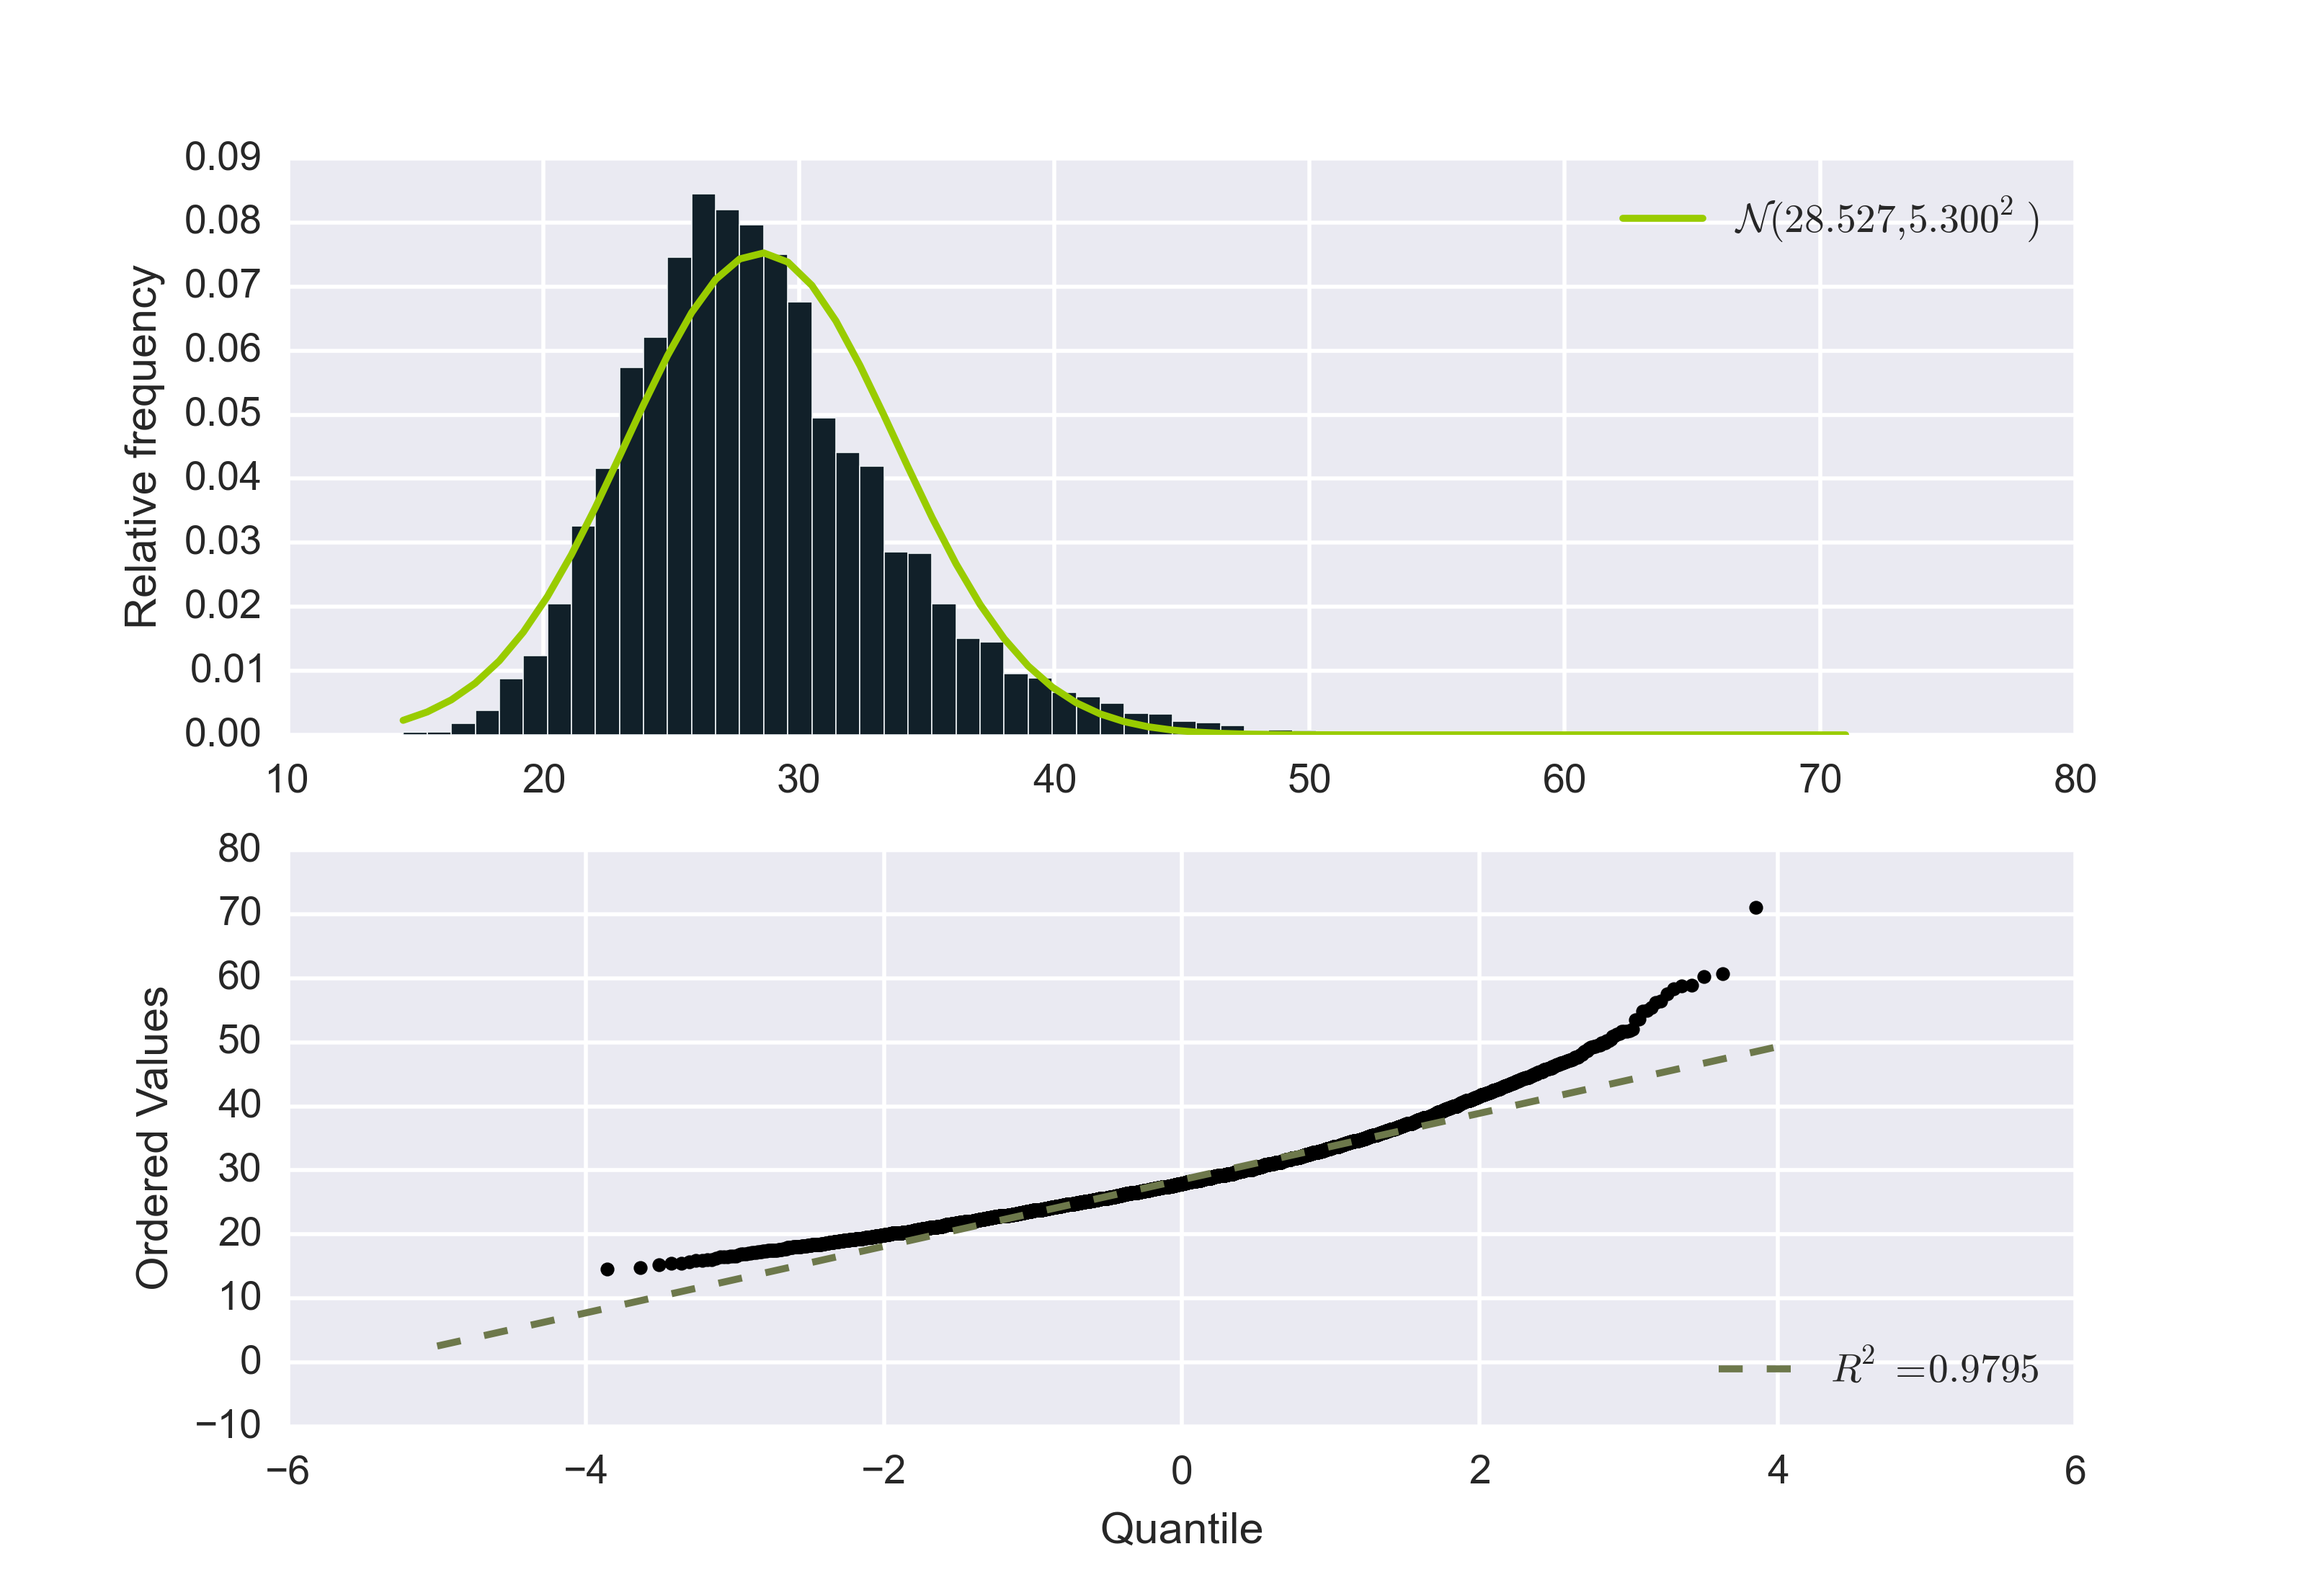
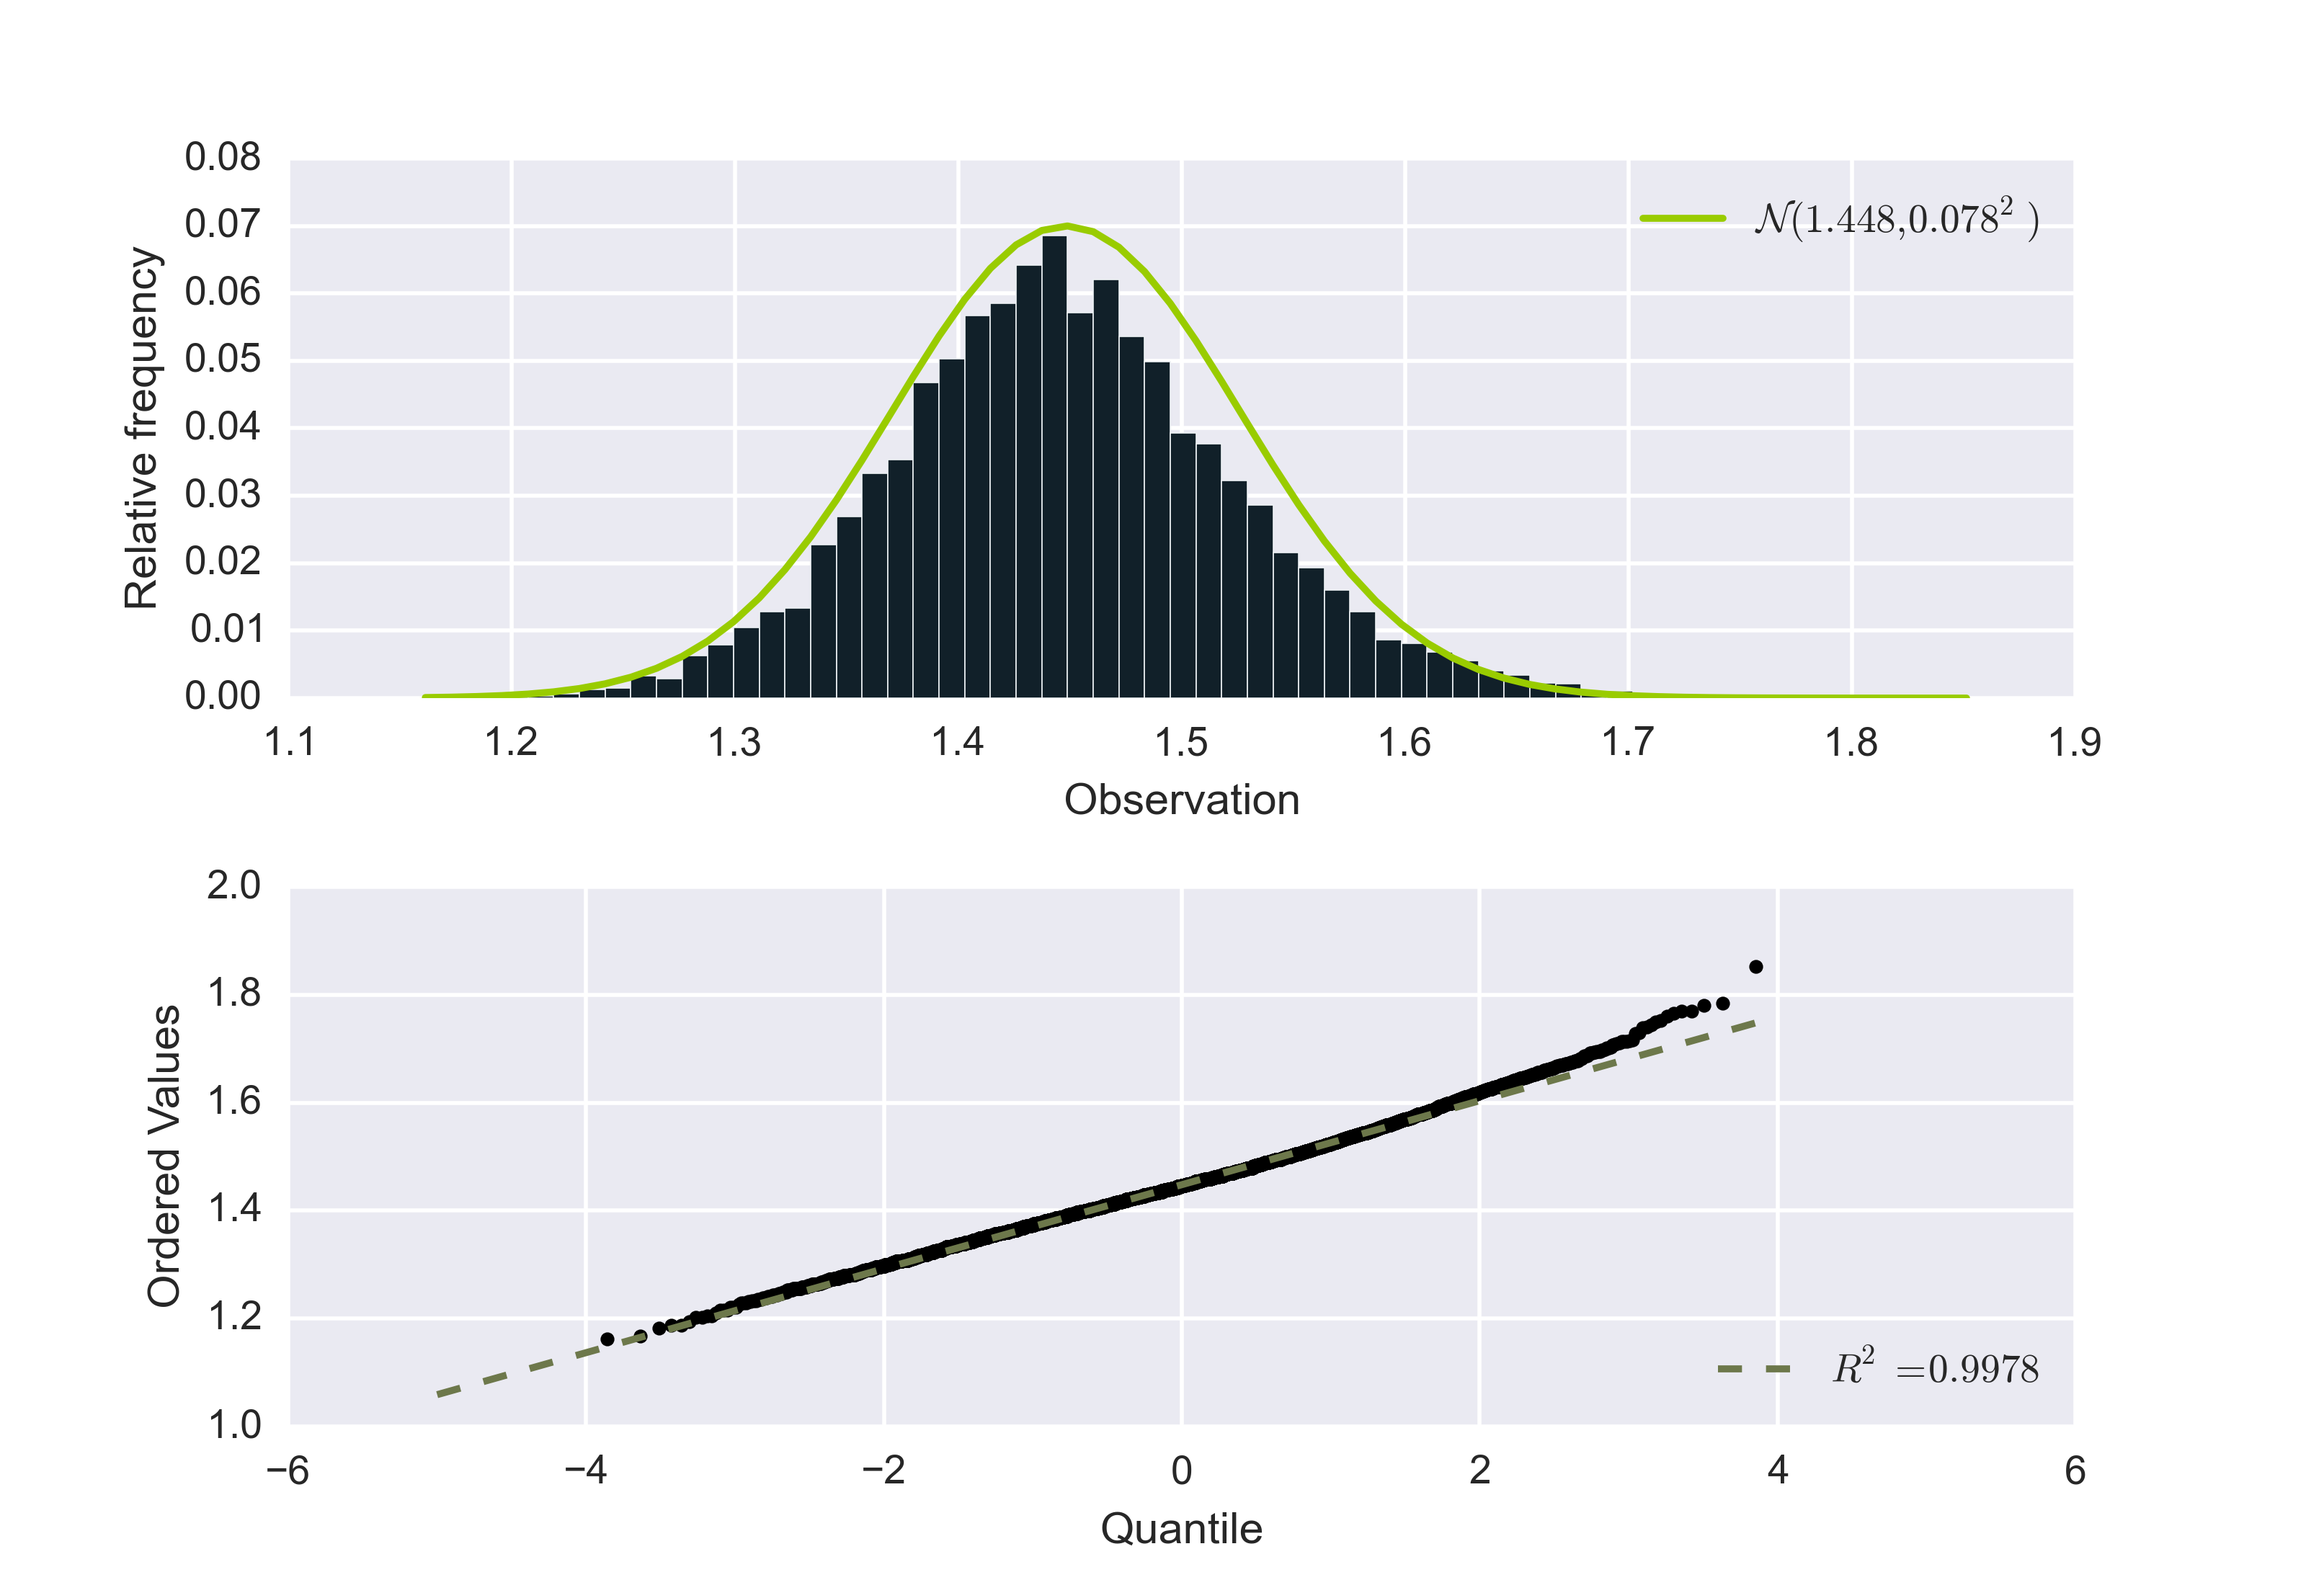
Added labels for the first subplot and spacing.

diff --git a/normality.py b/normality.py
@@ -33,6 +33,7 @@ def main(filename, field, delimiter, out):
     data = data[~np.isnan(data)]
 
     fig, axes = plt.subplots(2, 1)
+    plt.subplots_adjust(hspace=0.35)
 
     create_histogram(data, axes[0])
 
@@ -69,6 +70,7 @@ def create_histogram(data, ax):
             label="$\mathcal{{N}}({:.3f}, {:.3f}^2)$".format(mu, sigma))
 
     ax.set_ylabel("Relative frequency")
+    ax.set_xlabel("Observation")
     ax.legend()
 
 
